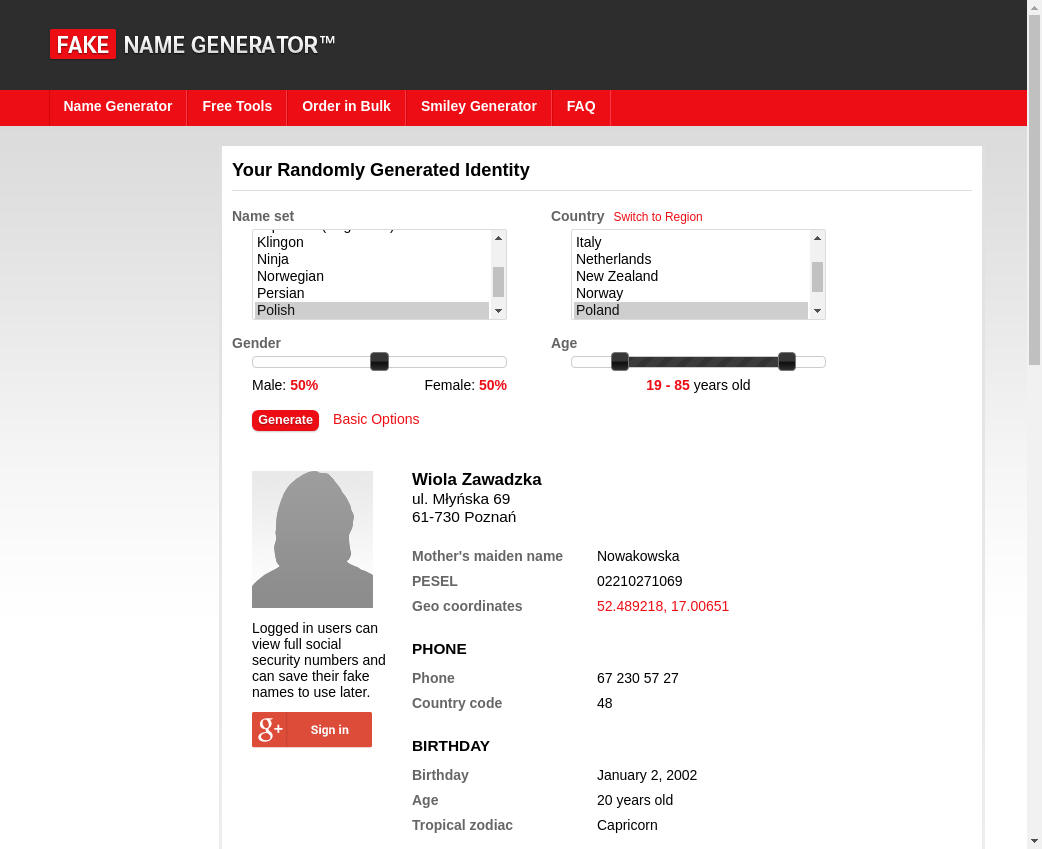
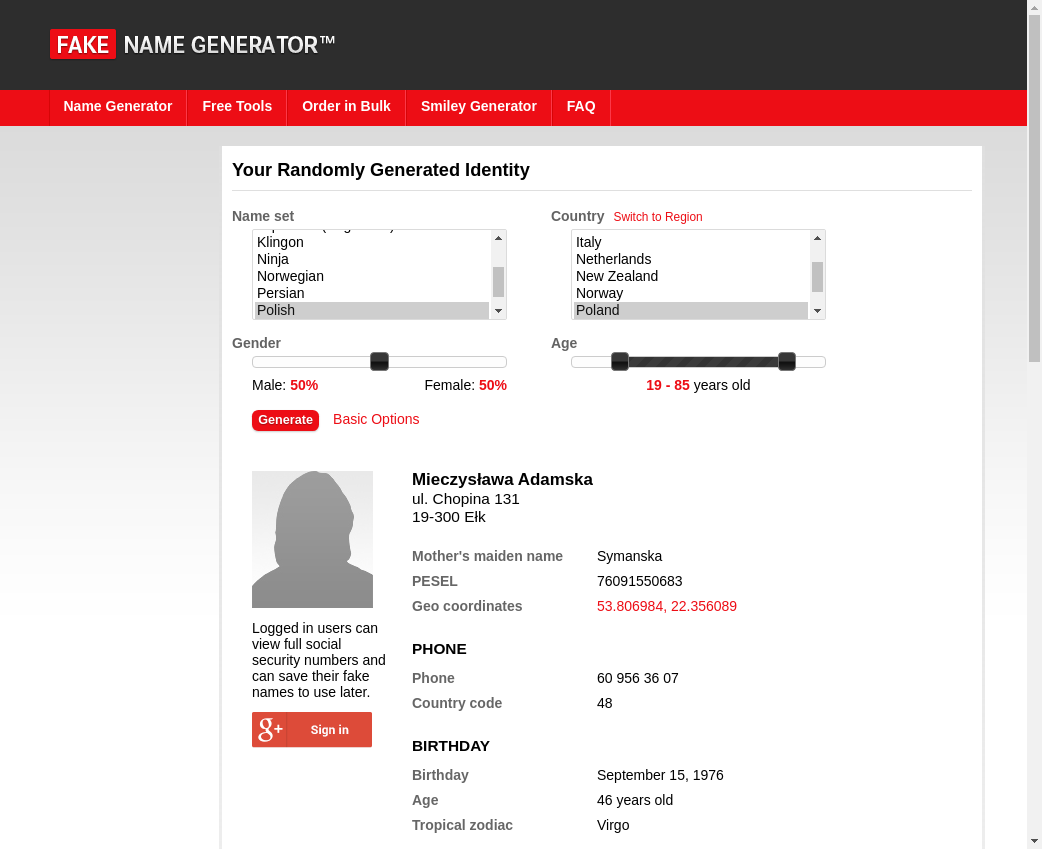
Initial commit

diff --git a/src/test/java/GetFakeName.java b/src/test/java/GetFakeName.java
@@ -1,0 +1,51 @@
+import org.apache.commons.io.FileUtils;
+import org.openqa.selenium.*;
+import org.openqa.selenium.chrome.ChromeOptions;
+import org.openqa.selenium.remote.RemoteWebDriver;
+import org.testng.annotations.AfterMethod;
+import org.testng.annotations.BeforeMethod;
+import org.testng.annotations.Test;
+
+import java.io.File;
+import java.io.IOException;
+import java.net.MalformedURLException;
+import java.net.URL;
+
+
+public class GetFakeName {
+    private WebDriver driver;
+
+    @BeforeMethod
+//    public void beforeTest() {
+//        System.setProperty("webdriver.chrome.driver", "/home/wkarpowicz/Downloads/chromedriver_linux64/chromedriver");
+//        driver = new ChromeDriver();
+//        driver.navigate().to("https://www.fakenamegenerator.com/advanced.php?t=country&n%5B%5D=pl&c%5B%5D=pl&gen=&age-min=&age-max=");
+//    }
+    public void beforeTest() throws MalformedURLException {
+        ChromeOptions capability = new ChromeOptions();
+        driver = new RemoteWebDriver(new URL("http://localhost:4444/wd/hub"), capability);
+        driver.navigate().to("https://www.fakenamegenerator.com/advanced.php?t=country&n%5B%5D=pl&c%5B%5D=pl&gen=&age-min=&age-max=");
+    }
+
+    @Test
+    public void getName() {
+        WebElement nameField = driver.findElement(By.xpath("//*[@id=\"details\"]/div[2]/div[2]/div/div[1]/h3"));
+        nameField.getText();
+        System.out.println(nameField.getText());
+        File scrFile = ((TakesScreenshot) driver).getScreenshotAs(OutputType.FILE);
+
+        File screenFile = ((TakesScreenshot) driver).getScreenshotAs(OutputType.FILE);
+
+        try {
+            FileUtils.copyFile(screenFile, new File("Screenshots/selenium_screenshot.png"));
+        } catch (IOException e) {
+            e.printStackTrace();
+        }
+    }
+
+    @AfterMethod
+    public void afterTest() {
+        driver.close();
+        driver.quit();
+    }
+}
